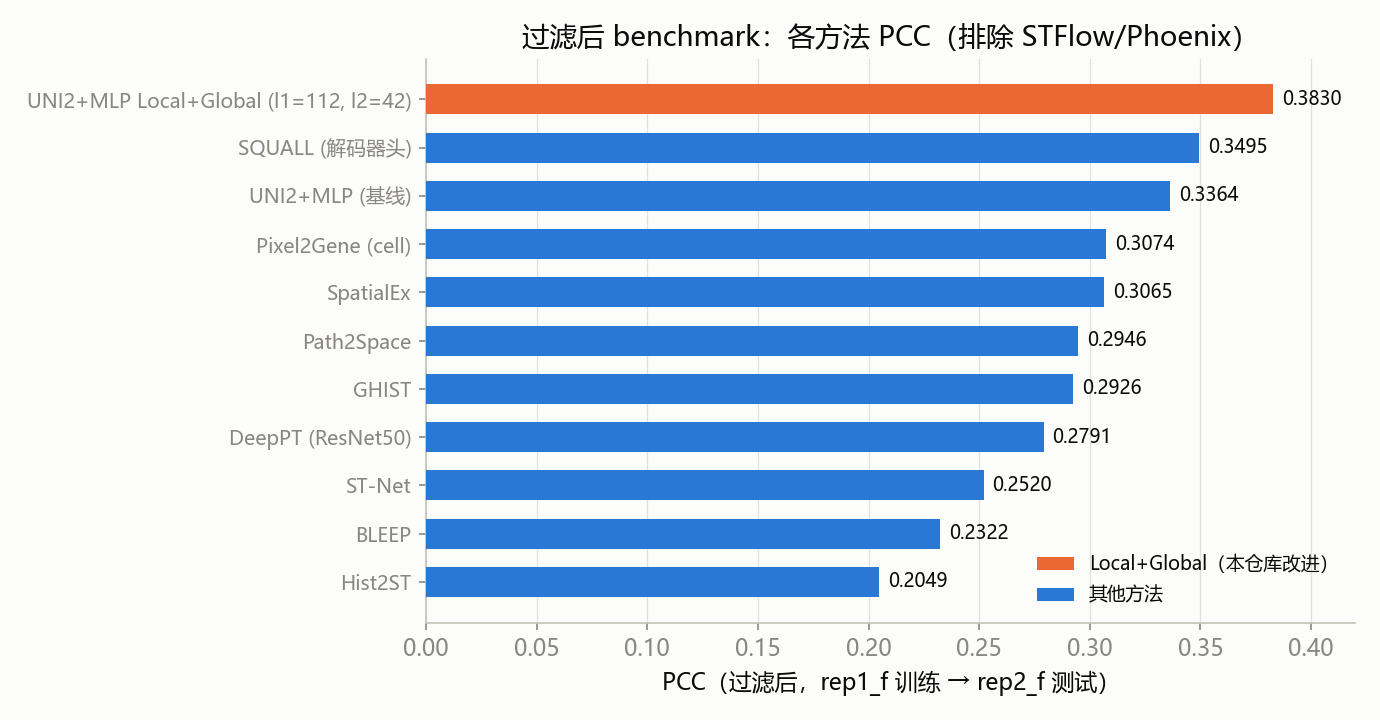
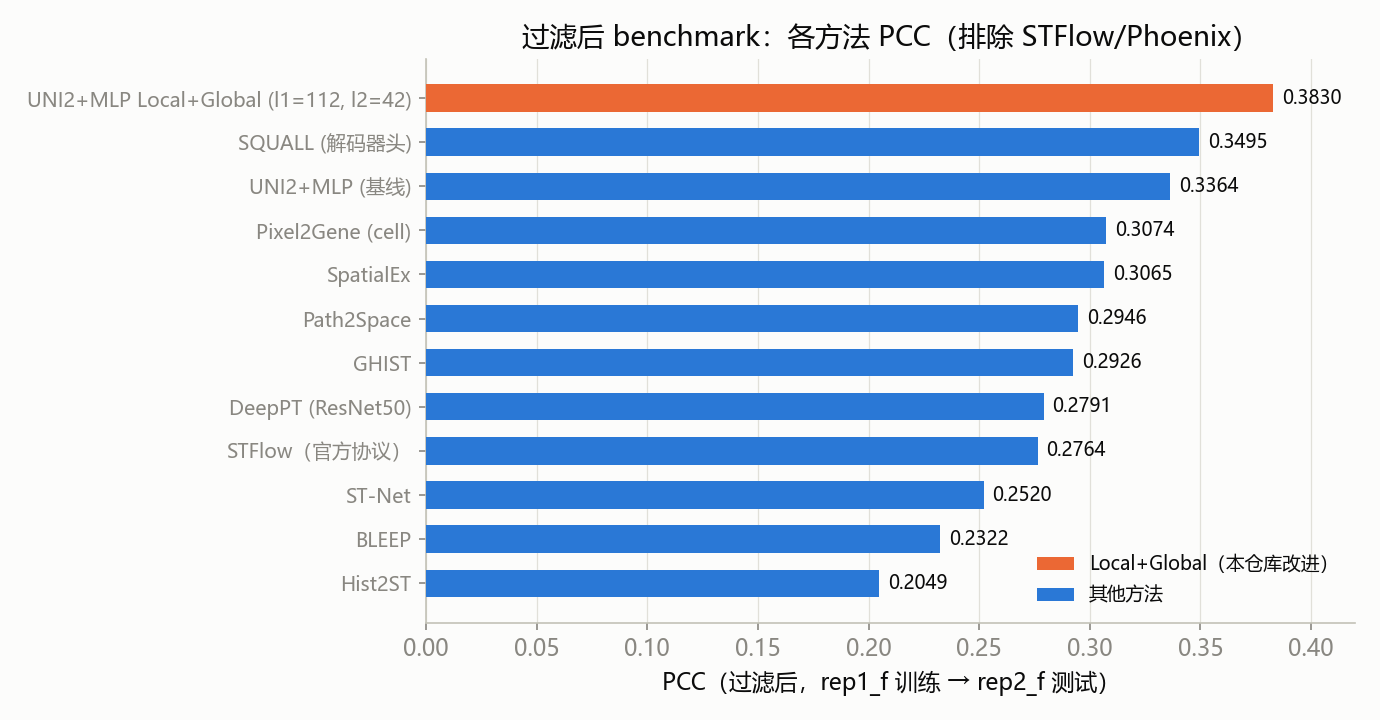
docs: 主表 STFlow 更新为官方协议版 0.2764(+0.183), 柱状图纳入 STFlow
STFlow 官方配置重跑完成(2026-08-28):
- 全基因 PCC 0.0997 → 0.2764 (+0.183); Top50 HVG 0.3626 → 0.5476 (+0.185)
- 官方去噪目标 + 128/128/0.2/0.2/swiglu + Adam/5e-4/100ep
- 过滤后主表 STFlow 行更新; PCC 柱状图纳入 STFlow(第 9 位)
- Phoenix odeint 测试仍在进行,未纳入柱状图

diff --git a/scripts/plot_filtered_results.py b/scripts/plot_filtered_results.py
@@ -105,6 +105,7 @@ methods = [
     ("Path2Space", 0.2946, False),
     ("GHIST", 0.2926, False),
     ("DeepPT (ResNet50)", 0.2791, False),
+    ("STFlow（官方协议）", 0.2764, False),
     ("ST-Net", 0.2520, False),
     ("BLEEP", 0.2322, False),
     ("Hist2ST", 0.2049, False),
